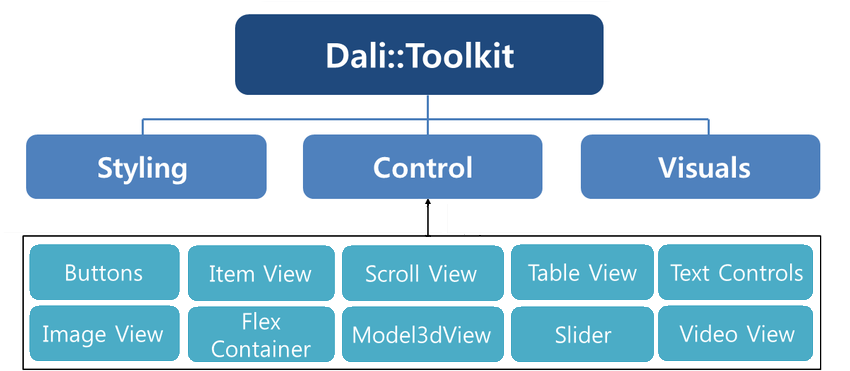
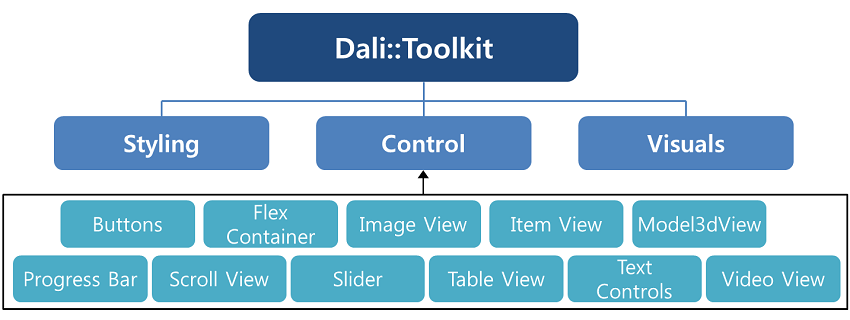
Add DALi ProgressBar guide
- Added DALi ProgressBar class guide.
- Updated DALi UI control hierarchy image.

diff --git a/docs/application/native/guides/ui/dali/progressbar-n.md b/docs/application/native/guides/ui/dali/progressbar-n.md
@@ -1,0 +1,120 @@
+# ProgressBar
+
+The progress bar is a control to give the user an indication of the progress of an operation. The base class for the progress bar control is `Dali::Toolkit::ProgressBar`.
+
+In this tutorial, the following subjects are covered:
+
+[ProgressBar events](#1)<br>
+[Creating a ProgressBar](#2)<br>
+[ProgressBar Properties](#3)<br>
+[Customizing the ProgressBar Appearance](#4)<br>
+
+## Overview
+
+The ProgressBar has two modes to represent the progress. The default mode is Determinate mode.
+
+- **Determinate mode** is to show a specific quantity of progress occurred. If you want to set the amount of progress, then set `PROGRESS_VALUE` property. If not supplied, the default value is 0.
+
+ *Figure: Determinate progress bar*
+ ![Determinate mode](./media/determinated_progress.png)
+
+
+- **Indeterminate mode** is to show the progress without a specific amount of progress indicated. If you want to indicate an indeterminate progress bar, then set `INDETERMINATE` enabled. You can also show an animation using `INDETERMINATE_VISUAL_ANIMATION` property.
+
+ *Figure: Indeterminate progress bar*
+ ![Indeterminate mode](./media/indeterminated_progress.png)
+
+<a name="1"></a>
+## ProgressBar events
+
+The following table lists the basic signal provided by the `Dali::Toolkit::ProgressBar` class.
+
+**Table: Dali::Toolkit::ProgressBar input signal**
+
+| Input signal              | Description                                 |
+| ------------------------- | ------------------------------------------- |
+| `ValueChangedSignal()`    | Emitted when the ProgressBar value changes. |
+
+<a name="2"></a>
+## Creating a ProgressBar
+
+The following basic example shows how to create a `Dali::Toolkit::ProgressBar` object:
+
+```
+ProgressBar progressBar = ProgressBar::New();
+progressBar.SetParentOrigin(ParentOrigin::TOP_CENTER);
+progressBar.SetAnchorPoint(AnchorPoint::TOP_CENTER);
+progressBar.SetResizePolicy(ResizePolicy::FILL_TO_PARENT, Dimension::WIDTH);
+progressBar.SetResizePolicy(ResizePolicy::USE_NATURAL_SIZE, Dimension::HEIGHT);
+progressBar.ValueChangedSignal().Connect( this, &ProgressBarExample::OnValueChanged );
+Stage::GetCurrent().Add( progressBar );
+```
+
+<a name="3"></a>
+## ProgressBar Properties
+
+You can modify the progress bar appearance and behavior through its properties.
+
+To change a property from its default value, use the `SetProperty()` function:
+
+```
+// Create a timer to update the progress of all progress bars
+mTimer = Timer::New( 50 );
+mTimer.TickSignal().Connect( this, &ProgressBarExample::OnTimerTick );
+mTimer.Start();
+
+...
+
+// To set the values, use SetProperty()
+bool OnTimerTick()
+{
+  mProgressValue += 0.01f; // float
+  mSecondaryProgressValue = mProgressValue + 0.1f; // float
+  progressBar.SetProperty( ProgressBar::Property::PROGRESS_VALUE, mProgressValue );
+  progressBar.SetProperty( ProgressBar::Property::SECONDARY_PROGRESS_VALUE, mSecondaryProgressValue );
+
+  // Only call again if progress has NOT got to the end
+  return ( mProgressValue < 1.0f );
+}
+```
+
+The following table lists the available progress bar properties.
+
+**Table: ProgressBar properties**
+
+| Property                   | Type    | Description                                   |
+| -------------------------- | ------- | --------------------------------------------- |
+| `PROGRESS_VALUE`           | FLOAT   | The progress value of progress bar. Runs from 0 to 1. |
+| `SECONDARY_PROGRESS_VALUE` | FLOAT   | The secondary progress value of progress bar. Runs from 0 to 1. |
+| `INDETERMINATE`            | BOOLEAN | Sets the progress bar as indeterminate state. |
+| `TRACK_VISUAL`             | MAP     | The Track Visual value of progress bar. It is a full progress area and shown behind PROGRESS_VISUAL. |
+| `PROGRESS_VISUAL`          | MAP     | The Progress Visual value of progress bar. The size of the progress visual is changed based on PROGRESS_VALUE. |
+| `SECONDARY_PROGRESS_VISUAL` | MAP     | The Secondary Progress Visual of progress bar. The size of the secondary progress visual is changed based on SECONDARY_PROGRESS_VALUE. |
+| `INDETERMINATE_VISUAL`     | MAP     | The indeterminate visual of progress bar.     |
+| `INDETERMINATE_VISUAL_ANIMATION` | MAP or ARRAY | The transition data for indeterminate visual animation. |
+| `LABEL_VISUAL`             | MAP     | The Label visual of progress bar.             |
+
+<a name="4"></a>
+## Customizing the ProgressBar Appearance
+
+The progress bar provides a set of default images, which are used automatically if you do not specify anything else.
+
+If you want to customize the progress bar appearance, you can assign your own images using the `Property::Map` class. You can set the size and image of the track, progress region, secondary progress region, and indeterminate visual.
+
+The following example shows how to customize the progress bar:
+
+```
+// Customize the progress bar
+Property::Map trackVisual;
+trackVisual["url"] = mImageDirectory + "new-progress-bar-track.9.png"; // Set the track image
+progressBar.SetProperty( ProgressBar::Property::TRACK_VISUAL, trackVisual );
+
+Property::Map progressVisual;
+progressVisual["url"] = mImageDirectory + "new-progress-bar-progress.9.png"; // Set the progress image
+progressBar.SetProperty( ProgressBar::Property::PROGRESS_VISUAL, progressVisual );
+```
+
+## Related Information
+- Dependencies
+  - Tizen 4.0 and Higher for Mobile
+  - Tizen 4.0 and Higher for Wearable

diff --git a/docs/application/native/guides/ui/dali/ui-components-n.md b/docs/application/native/guides/ui/dali/ui-components-n.md
@@ -24,6 +24,7 @@ The following table lists the available UI components.
 | [ImageView](./imageview-n.md)         | An image view that renders an image.     | `ImageView`                              |
 | [ItemView](./itemview-n.md)           | An item view that renders item sets in a scrollable layout. | `ItemView`, `ItemFactory`, `ItemLayout`, `Scrollable` |
 | [Model3dView](./model3dview-n.md)     | A model view that displays static 3D content. | `Model3dView`                            |
+| [ProgressBar](./progressbar-n.md)     | A control to give the user an indication of the progress of an operation. | `ProgressBar`                              |
 | [ScrollView](./scrollview-n.md)       | A scroll view to provide scrollable view. | `ScrollView`, `Scrollable`, `ScrollViewEffect`, `ScrollViewPagePathEffect` |
 | [Slider](./slider-n.md)               | A control that indicates a modifiable value within a specific range. | `Slider`                                 |
 | [TableView](./tableview-n.md)         | A table view that can align child actors in a grid like layout. | `TableView`                              |

diff --git a/docs/application/native/guides/ui/TOC.md b/docs/application/native/guides/ui/TOC.md
@@ -158,6 +158,7 @@
 ### [ImageView](native-app/guides/ui/dali/imageview.md)
 ### [ItemView](native-app/guides/ui/dali/itemview.md)
 ### [Model3dView](native-app/guides/ui/dali/model3dview.md)
+### [ProgressBar](native-app/guides/ui/dali/progressbar.md)
 ### [ScrollView](native-app/guides/ui/dali/scrollview.md)
 ### [Slider](native-app/guides/ui/dali/slider.md)
 ### [TableView](native-app/guides/ui/dali/tableview.md)

diff --git a/docs/application/native/guides/ui/dali/TOC.md b/docs/application/native/guides/ui/dali/TOC.md
@@ -18,6 +18,7 @@
 ### [ImageView](native-app/guides/ui/dali/imageview.md)
 ### [ItemView](native-app/guides/ui/dali/itemview.md)
 ### [Model3dView](native-app/guides/ui/dali/model3dview.md)
+### [ProgressBar](native-app/guides/ui/dali/progressbar.md)
 ### [ScrollView](native-app/guides/ui/dali/scrollview.md)
 ### [Slider](native-app/guides/ui/dali/slider.md)
 ### [TableView](native-app/guides/ui/dali/tableview.md)
